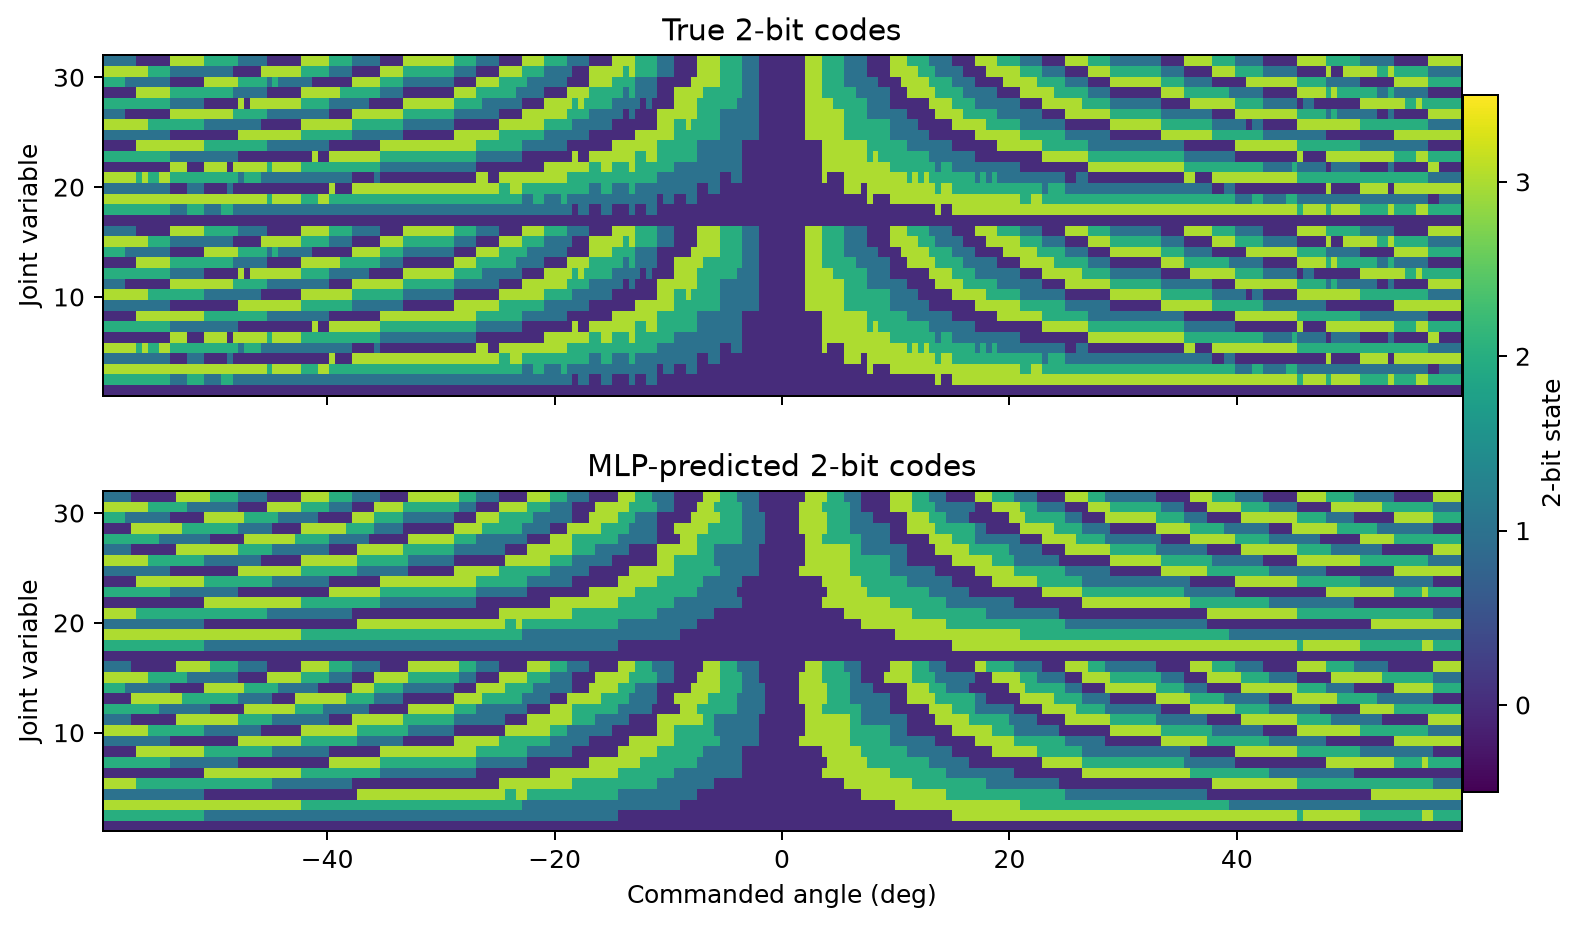
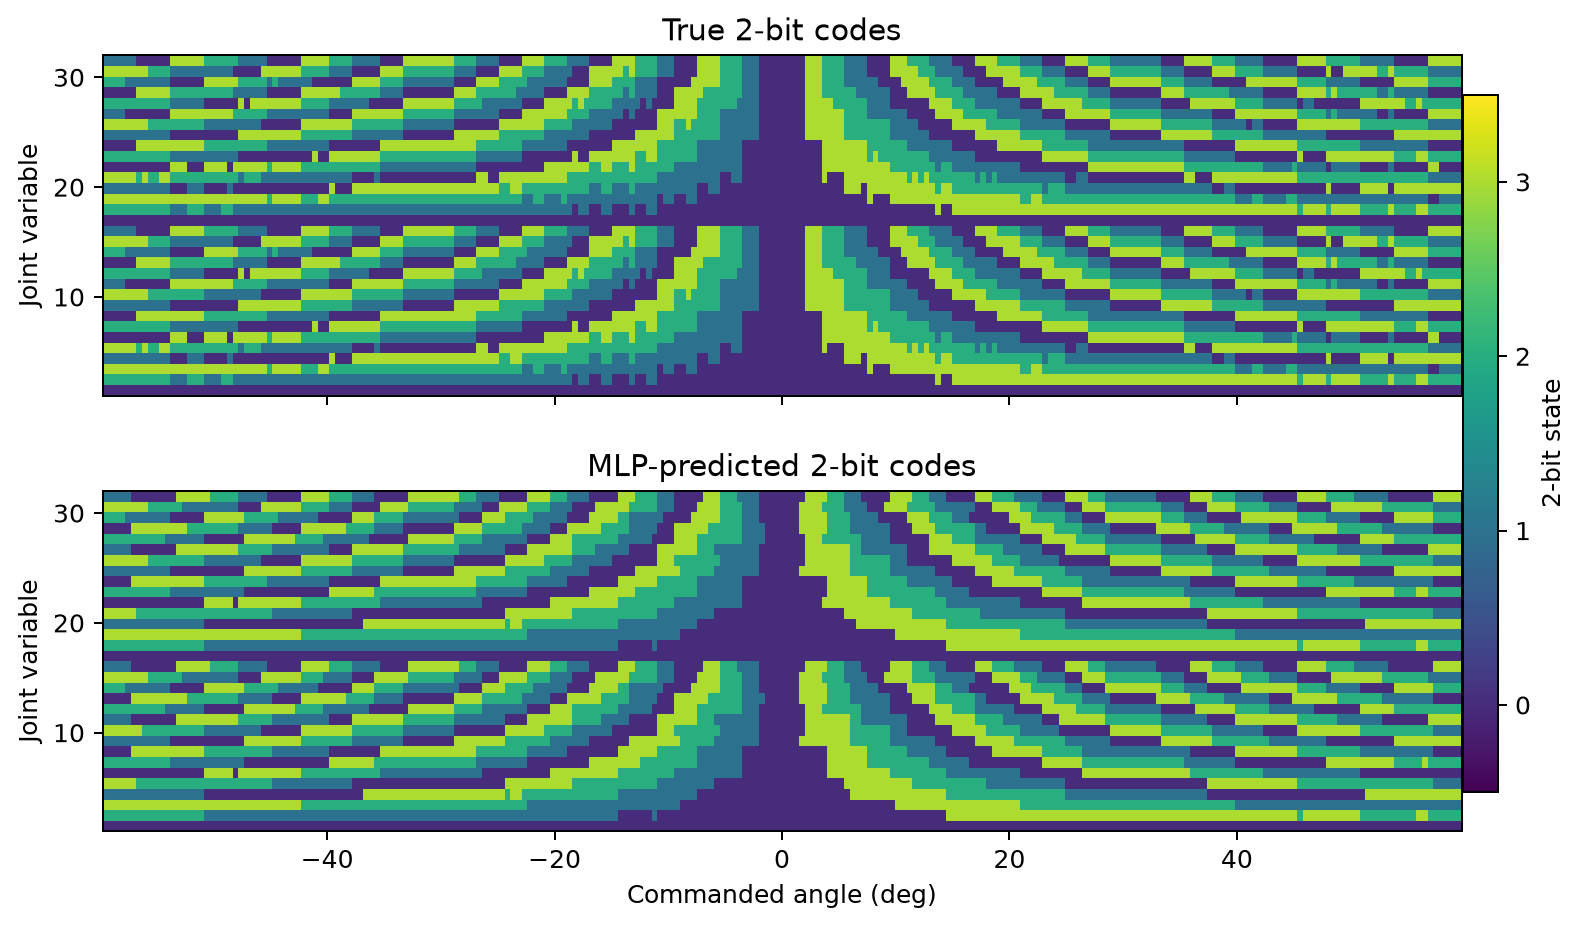
1

diff --git a/Main_dual_ris_channel_simulation.py b/Main_dual_ris_channel_simulation.py
@@ -273,7 +273,7 @@ def main() -> None:
     for selected_iteration in test_data["selected_iterations"]:
         axes[0].axvline(selected_iteration, color="#AAB7C4", linestyle="--", linewidth=0.8)
         axes[1].axvline(selected_iteration, color="#AAB7C4", linestyle="--", linewidth=0.8)
-    figure.suptitle(f"CE convergence at selected angle theta={test_angle_deg:.0f}°", fontsize=12)
+    figure.suptitle(f"Part II: CE convergence at selected angle theta={test_angle_deg:.0f}°", fontsize=12)
     figure.tight_layout()
 
     # 迭代演化图逐列展示第1次、用户指定的中间时刻和最后一次迭代的内部状态。

diff --git a/relay_sim/Channel_Modeling.py b/relay_sim/Channel_Modeling.py
@@ -141,5 +141,5 @@ def plot_link_results(results: dict, CE_Matrices_MS1: np.ndarray, CE_Matrices_MS
         colorbar = figure.colorbar(image, ax=ax, ticks=[0, 1, 2, 3], fraction=0.046, pad=0.03)
         colorbar.ax.set_yticklabels(["0°", "90°", "180°", "270°"])
 
-    figure.suptitle("Overall CE-optimized aerial-link results", fontsize=14)
+    figure.suptitle("Part I:Overall CE-optimized aerial-link results", fontsize=14)
     figure.tight_layout(rect=(0.0, 0.0, 1.0, 0.96))
